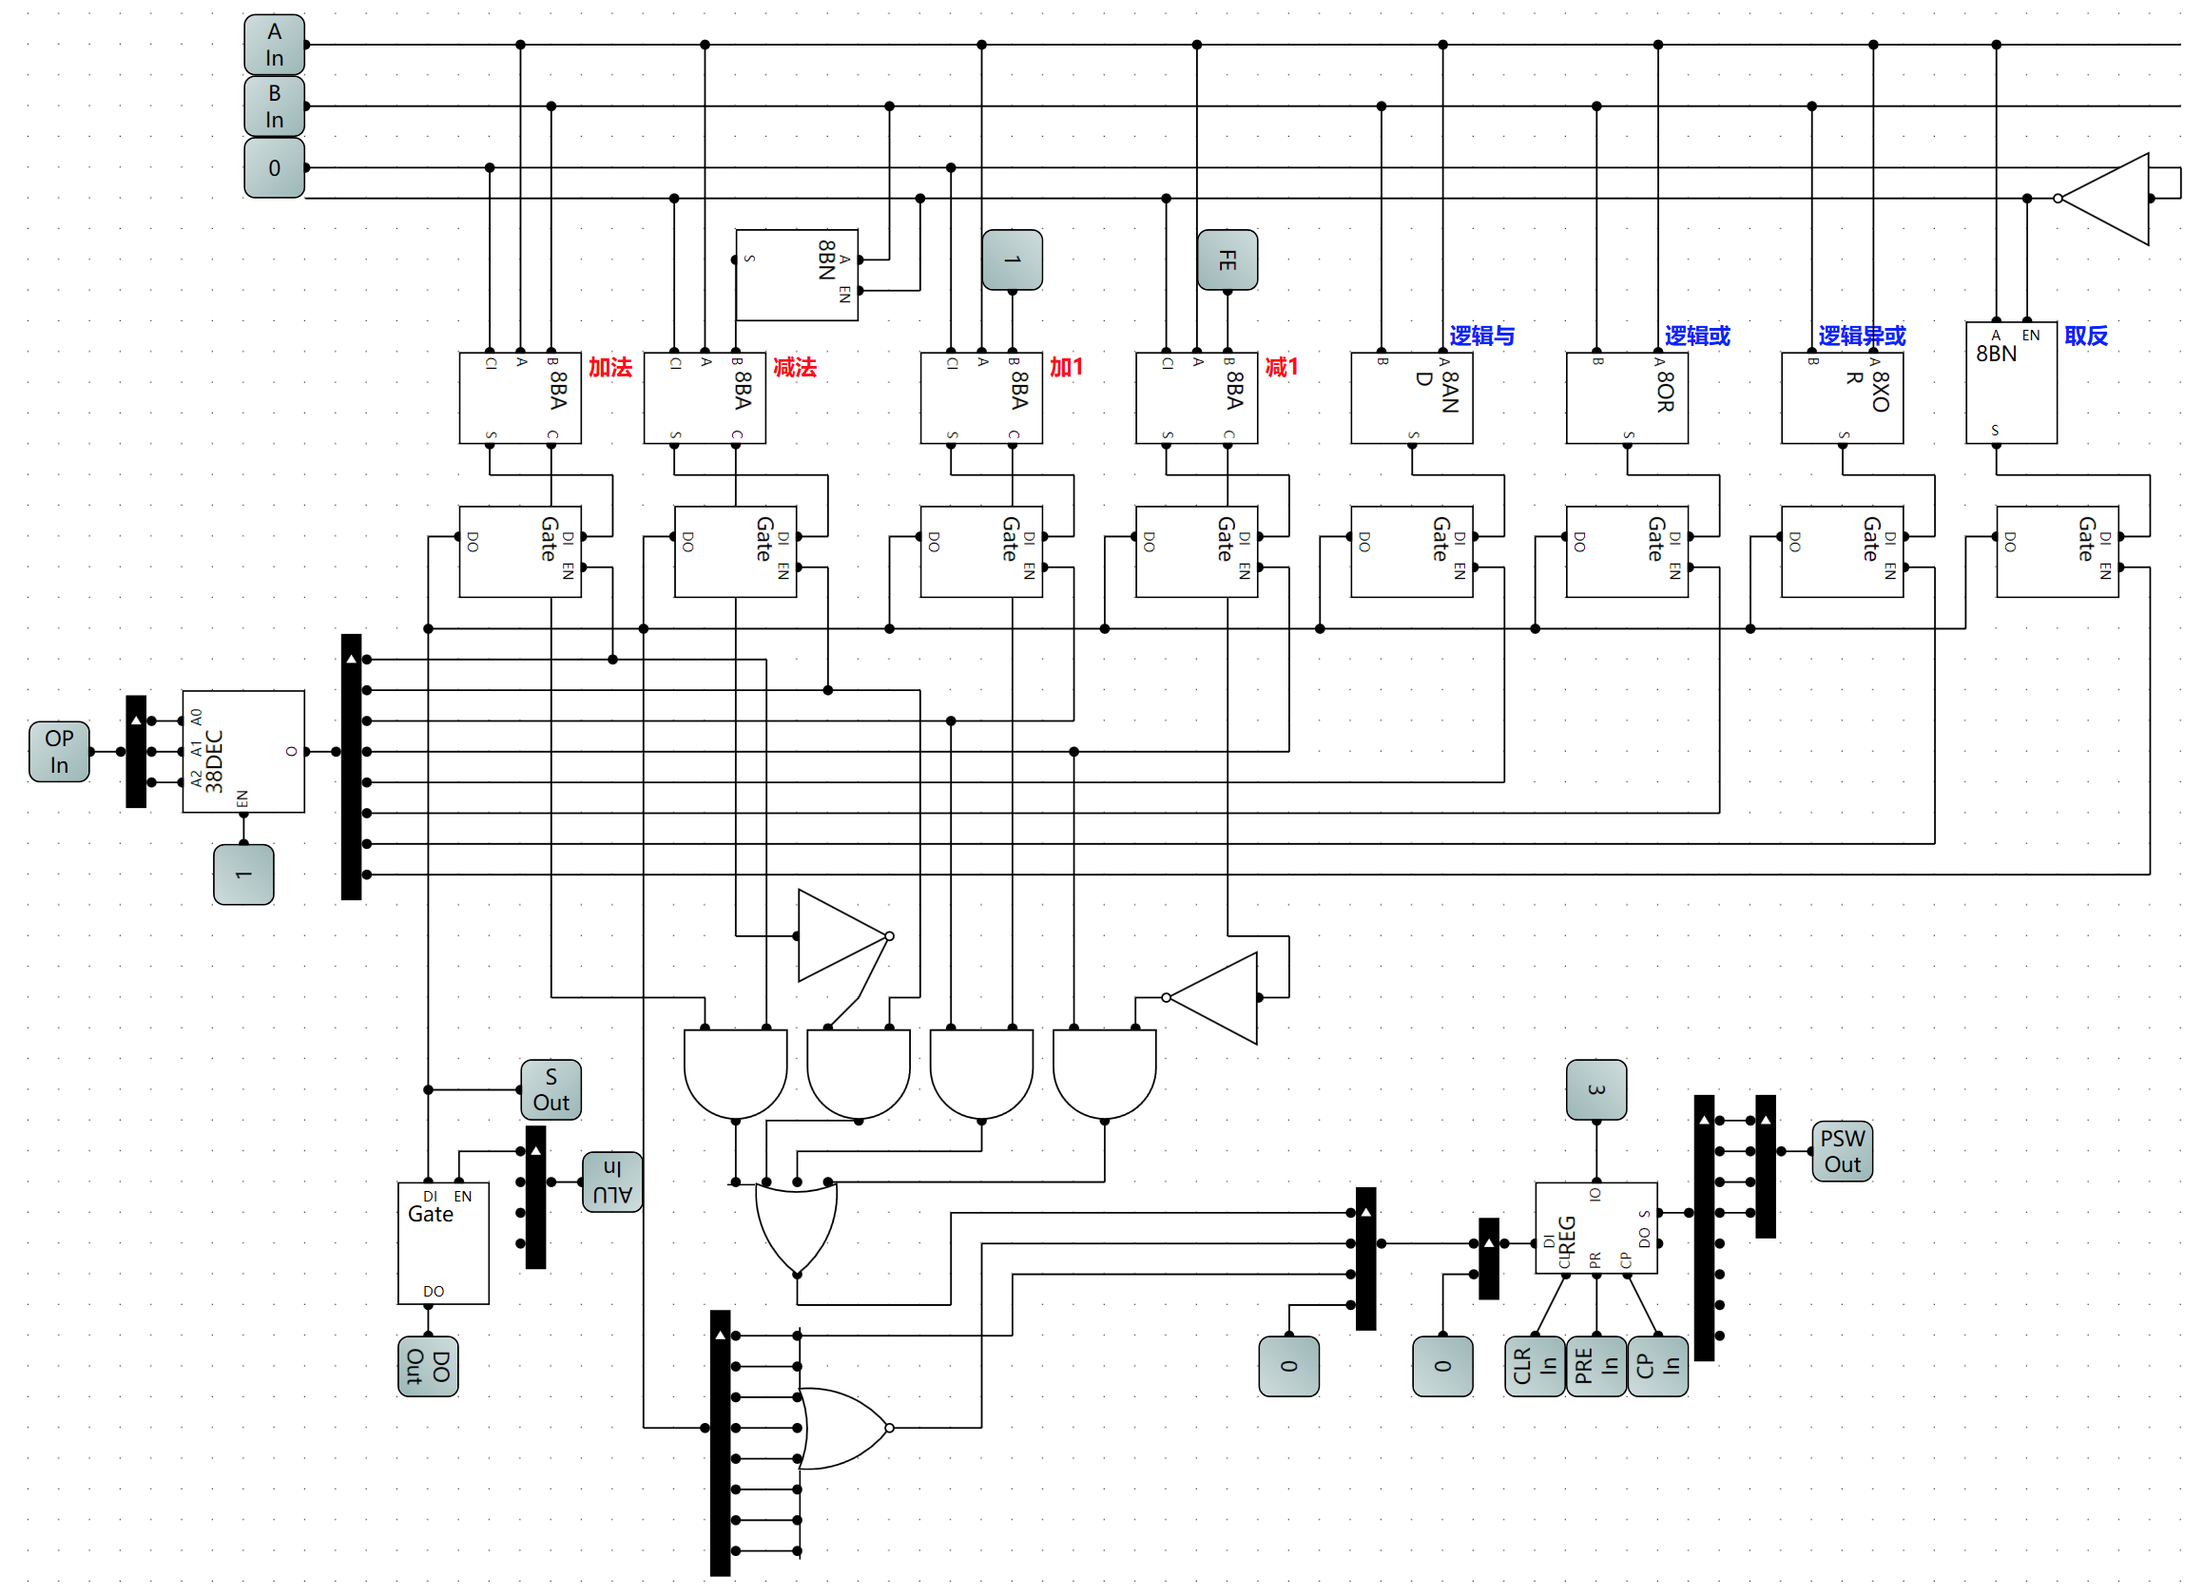
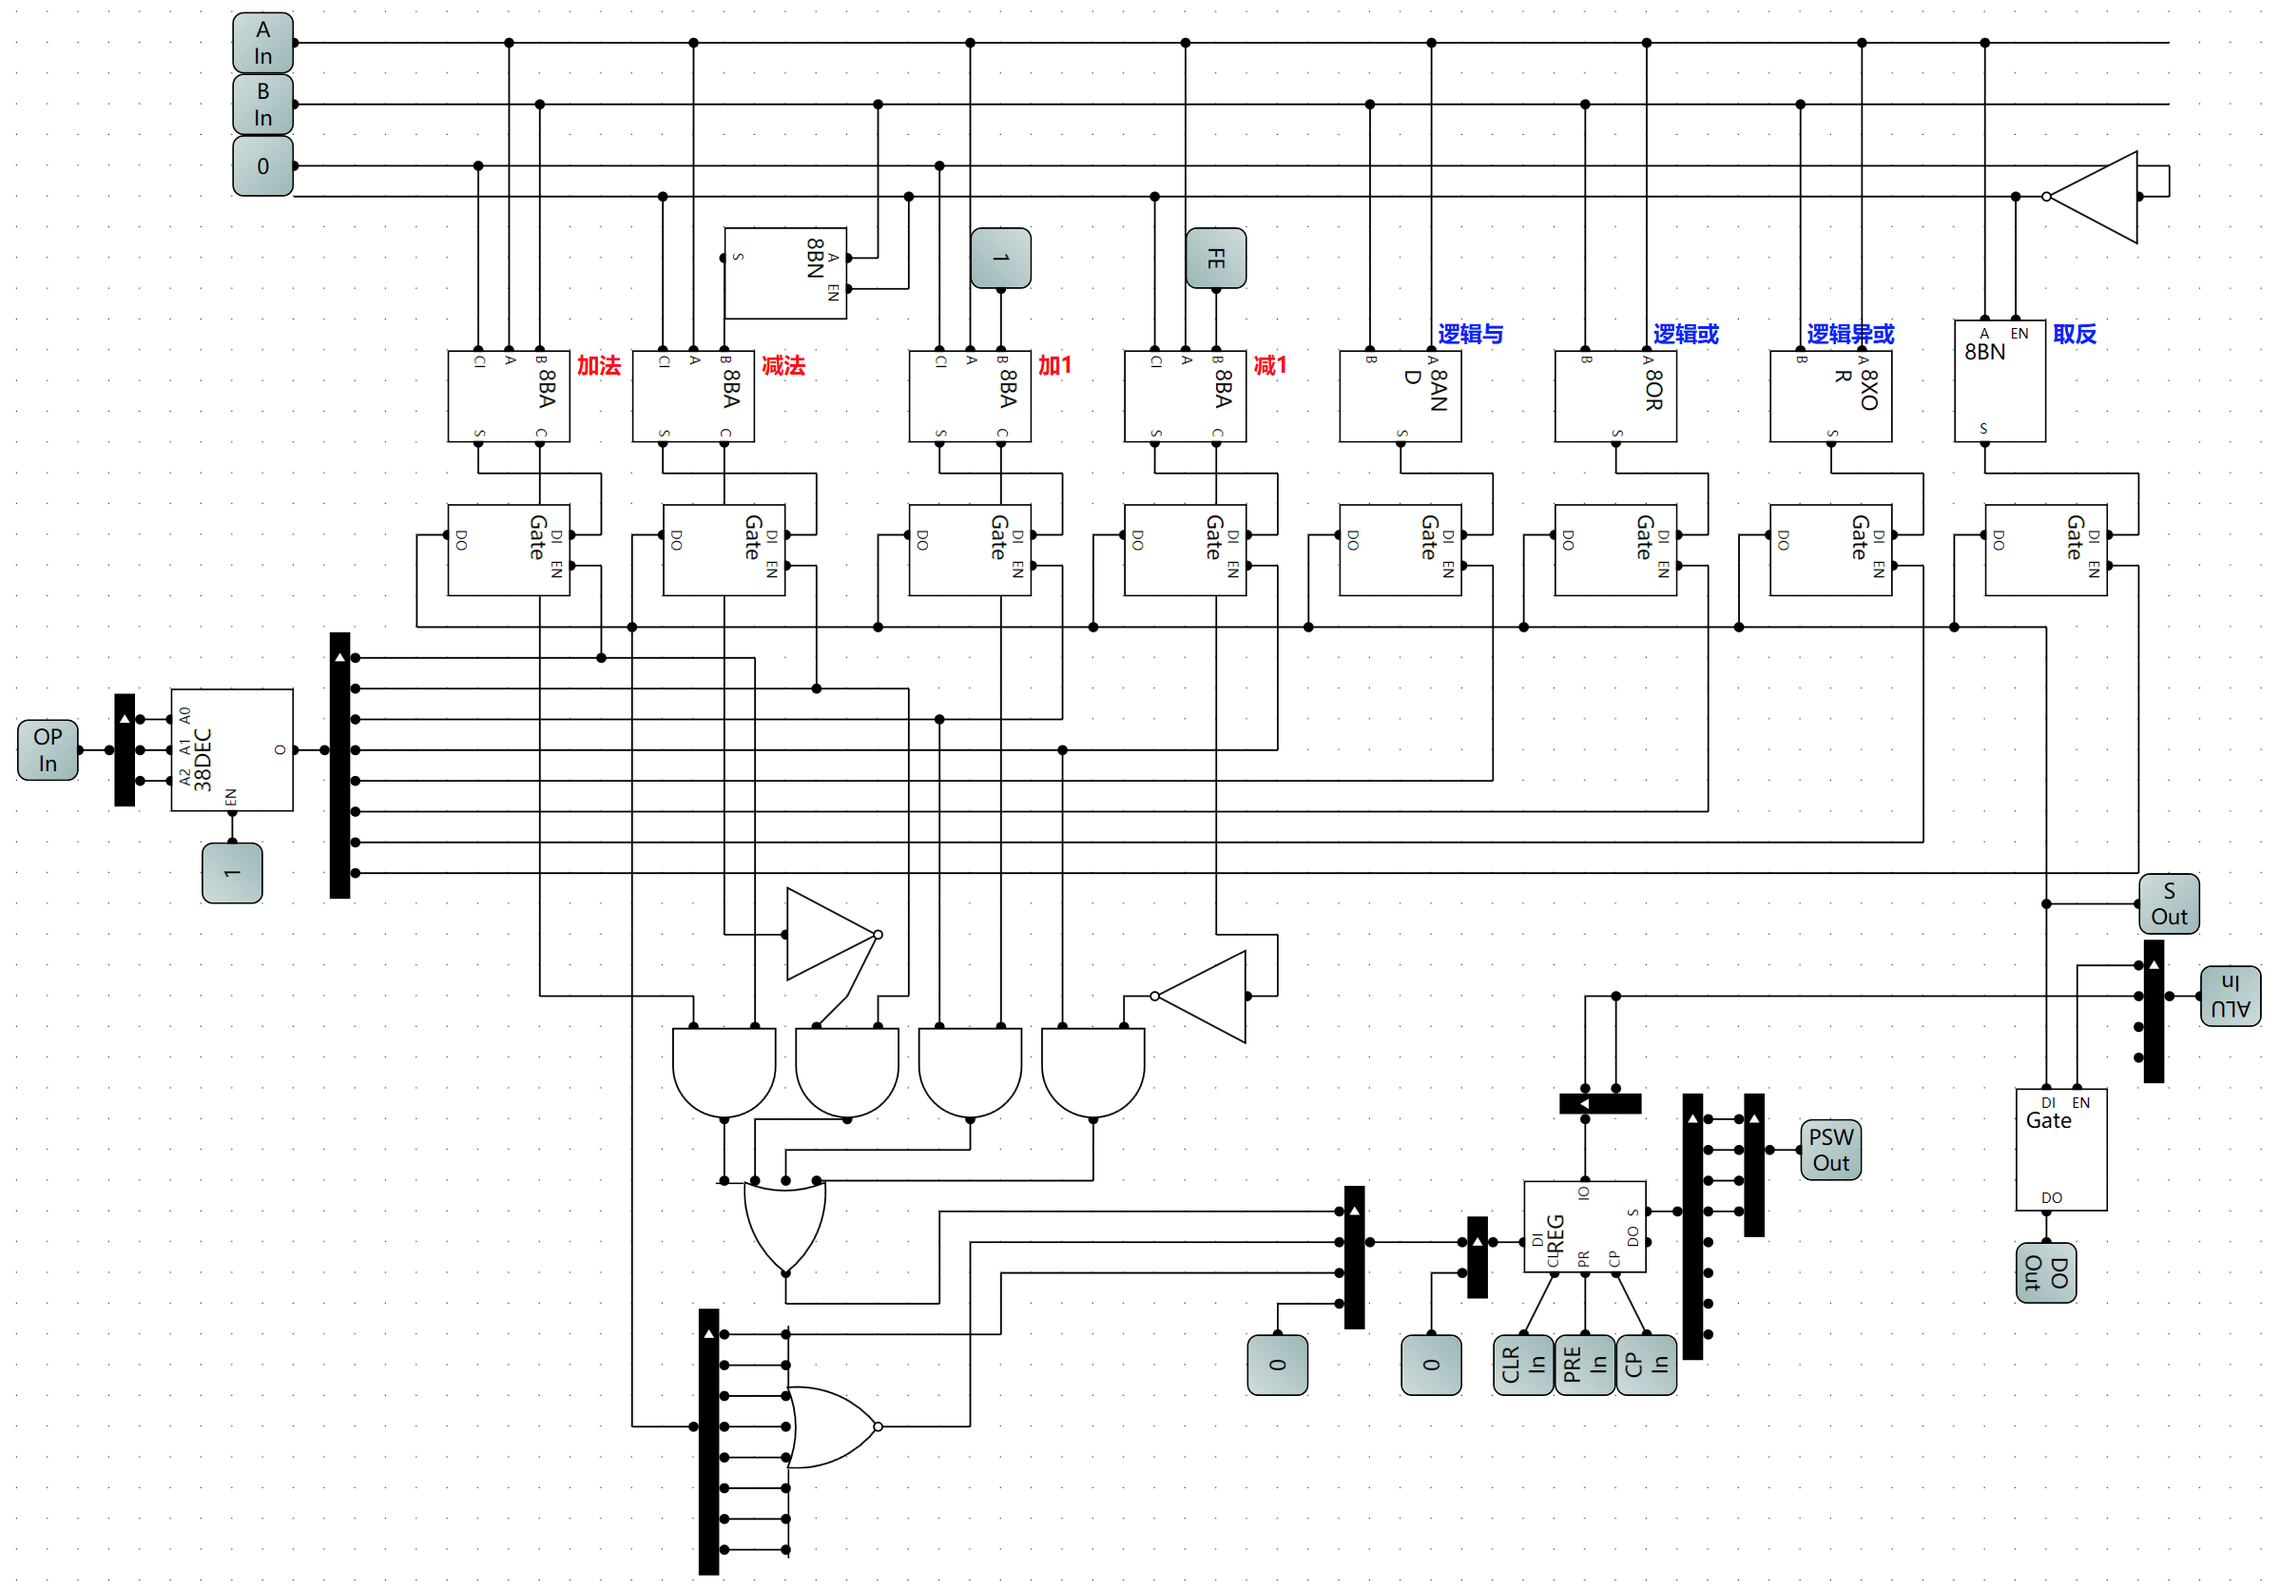
完成条件转移指令,psw的alu电路控制位修复,cmp比较指令,jmp跳转指令

diff --git a/home-docsify/skill/basic/compose-cpu-make.md b/home-docsify/skill/basic/compose-cpu-make.md
@@ -288,12 +288,12 @@ MOV: {
 }
 ```
 
-### 算术运算
+### 算术运算指令
 之前的ALU已经支持了6种操作，分别是加、减、与、或、异或、非；现在扩展2种，分别是加1和减1。（利用硬件来实现++和--，比软件实现简单）
 
 [升级ALU](/skill/basic/compose-cpu-make?id=alu升级)
 
-#### 加法ADD
+#### 加法ADD指令
 ``` python
 ADD: {
     # 1. ADD A,5;
@@ -310,7 +310,7 @@ ADD: {
     ]
 },
 ```
-#### 减法SUB
+#### 减法SUB指令
 ``` python
 SUB: {
     # 1. SUB A,5;
@@ -327,7 +327,7 @@ SUB: {
     ]
 },
 ```
-#### 加一INC
+#### 加一INC指令
 ``` python
 INC: {
     # INC A
@@ -337,7 +337,7 @@ INC: {
     ]
 },
 ```
-#### 减一DEC
+#### 减一DEC指令
 ``` python
 DEC: {
     # DEC A
@@ -348,10 +348,10 @@ DEC: {
 },
 ```
 
-### 逻辑运算
+### 逻辑运算指令
 支持与、或、异或和非。
 
-#### 与AND
+#### 与AND指令
 ``` python
 AND: {
     # 1. AND A,5;
@@ -368,7 +368,7 @@ AND: {
     ]
 },
 ```
-#### 或OR
+#### 或OR指令
 ``` python
 OR: {
     # 1. OR A,5;
@@ -385,7 +385,7 @@ OR: {
     ]
 },
 ```
-#### 异或XOR
+#### 异或XOR指令
 ``` python
 XOR: {
     # 1. XOR A,5;
@@ -402,7 +402,7 @@ XOR: {
     ]
 }
 ```
-#### 非NOT
+#### 非NOT指令
 ``` python
 NOT: {
     # NOT A
@@ -413,8 +413,219 @@ NOT: {
 },
 ```
 
-* 标记转移
-* 条件转移
+### 标记转移指令
+
+思路：代码类型分为代码和标记，将标记的下一条指令记录。出现JMP Label；时，将PC的值设置为Label的下一条指令地址即可。
+
+#### JMP指令
+``` python
+JMP: {
+    # JMP aaaa;
+    pin.AM_INS: [
+        pin.DST_OUT | pin.PC_IN
+    ],
+}
+```
+汇编程序如下：
+``` asm
+MOV D,1;
+a:
+    INC D;
+    JMP a;
+; 停止
+HLT;
+```
+预处理代码时，如果是以冒号结尾则设置代码类型为标记：
+``` python
+def prepare_source(self):
+    # 以冒号结尾,为标记
+    if self.source.endswith(':'):
+        self.type = self.TYPE_LABEL
+        self.name = self.source.strip(':')
+        return
+    ...
+```
+编译代码时，支持标记：
+``` python
+def compile_program():
+  global codes
+  global marks
+  # 读取源代码
+  with open(src_name, encoding="utf-8") as file:
+      lines = file.readlines()
+  # 逐行处理
+  for number,line in enumerate(lines):
+      # 去掉空格
+      source = line.strip()
+      # 处理注释
+      if ";" in source:
+          match = annotation.match(source)
+          source = match.group(1)
+      if not source:
+          continue
+      # 加入代码集合
+      codes.append(Code(number+1, source))
+  # 倒叙处理标记
+  result = []
+  current = None
+  for var in range(len(codes) - 1, -1, -1):
+      code = codes[var]
+      # 倒叙处理标记，如果是标记则加入到marks字典，是代码则加入代码集合
+      if code.type == Code.TYPE_CODE:
+          current = code
+          result.insert(0, code)
+          continue
+      if code.type == Code.TYPE_LABEL:
+          marks[code.name] = current
+          continue
+      raise SyntaxError(code)
+  # 设置代码当前指令行序号
+  for index, var in enumerate(result):
+      var.index = index
+
+  # 将代码编译后生成program.bin二进制代码
+  with open(dst_name, 'wb') as file:
+      for code in result:
+          values = code.compile_code()
+          print(f'{code} , {values}')
+          for value in values:
+              result = value.to_bytes(1, byteorder='little')
+              file.write(result)
+  pass
+```
+在获取操作数时，如果是标记，则返回立即数和下条指令的地址（乘以3，是因为一条指令占3个字节）
+``` python
+ # 通过地址获取
+def get_am(self, addr):
+    global marks
+    if addr in marks:
+        return pin.AM_INS, marks[addr].index * 3
+......
+```
+### 条件转移指令
+条件转移指令依赖比较指令CMP，和ALU中的程序状态字PSW。
+
+#### CMP指令
+让2个数做减法，并且将PSW保存起来。（检查电路，特别是ALU的程序状态字部分电路，写入的电路在ALU的第二位）
+``` python
+CMP: {
+    # 1. CMP A,5;
+    (pin.AM_REG, pin.AM_INS): [
+        pin.DST_R | pin.A_IN,
+        pin.SRC_OUT | pin.B_IN,
+        pin.OP_SUB | pin.ALU_PSW
+    ],
+    # 2. CMP A,B;
+    (pin.AM_REG, pin.AM_REG): [
+        pin.DST_R | pin.A_IN,
+        pin.SRC_R | pin.B_IN,
+        pin.OP_SUB | pin.ALU_PSW
+    ]
+},
+```
+#### 6大条件指令
+``` python
+# 6大条件跳转，根据PSW来判定
+# 溢出跳转
+JO = (4 << pin.ADDR1_SHIFT) | pin.ADDR1
+# 非溢出跳转
+JNO = (5 << pin.ADDR1_SHIFT) | pin.ADDR1
+# 零跳转
+JZ = (6 << pin.ADDR1_SHIFT) | pin.ADDR1
+# 非零跳转
+JNZ = (7 << pin.ADDR1_SHIFT) | pin.ADDR1
+# 奇数跳转
+JP = (8 << pin.ADDR1_SHIFT) | pin.ADDR1
+# 非奇数跳转
+JNP = (9 << pin.ADDR1_SHIFT) | pin.ADDR1
+```
+微操作都是将要跳转的指令地址写入到PC中，和JMP指令一样。
+``` python
+JO: {
+    pin.AM_INS: [
+        pin.DST_OUT | pin.PC_IN
+    ],
+},
+JNO: {
+    pin.AM_INS: [
+        pin.DST_OUT | pin.PC_IN
+    ],
+},
+JZ: {
+    pin.AM_INS: [
+        pin.DST_OUT | pin.PC_IN
+    ],
+},
+JNZ: {
+    pin.AM_INS: [
+        pin.DST_OUT | pin.PC_IN
+    ],
+},
+JP: {
+    pin.AM_INS: [
+        pin.DST_OUT | pin.PC_IN
+    ],
+},
+JNP: {
+    pin.AM_INS: [
+        pin.DST_OUT | pin.PC_IN
+    ],
+}
+```
+不过前提是满足某个条件才执行跳转：(在微程序生成器中，根据PSW的状态位和OP来控制对应指令的执行)
+```
+# 条件跳转指令集合
+CONDITION_JMPS = {ASM.JO, ASM.JNO, ASM.JZ, ASM.JNZ, ASM.JP, ASM.JNP}
+
+# 编译1地址指令
+def compile_addr1(addr, ir, psw, index):
+    # ir=1地址指令时 6位指令 | 2位目标数
+    global micro
+    global CONDITION_JMPS
+    # ir 6位指令 | 2位目标操作数
+    op = ir & 0xfc  # 指令助记符
+    amd = ir & 3  # 目标操作数
+
+    INST = ASM.INS_SUPPORT_LIST[1]
+    # 指令不在支持的指令内，执行指令周期并返回
+    if op not in INST:
+        micro[addr] = pin.CYC
+        return
+
+    am = amd
+    if am not in INST[op]:
+        micro[addr] = pin.CYC
+        return
+
+    # 拿到要执行的指令
+    EXEC = INST[op][am]
+    # 如果指令是条件跳转指令，则获取跳转指令
+    if op in CONDITION_JMPS:
+        EXEC = get_condition_jump(EXEC, op, psw)
+    if index < len(EXEC):
+        micro[addr] = EXEC[index]
+    else:
+        micro[addr] = pin.CYC
+    pass
+```
+
+#### asm例子
+``` asm
+MOV D,1;
+aaa:
+    INC D
+    CMP D,5
+    JO aaa
+bbb:
+    DEC D
+    CMP D,0
+    JZ aaa
+    JNO bbb
+; 停止
+HLT;
+```
+测试时效果为，D先从1加到5，再从5减到0，又加到5，再减到0，如此往复。
+
 * 堆栈操作
 * 函数调用
 * 内中断
